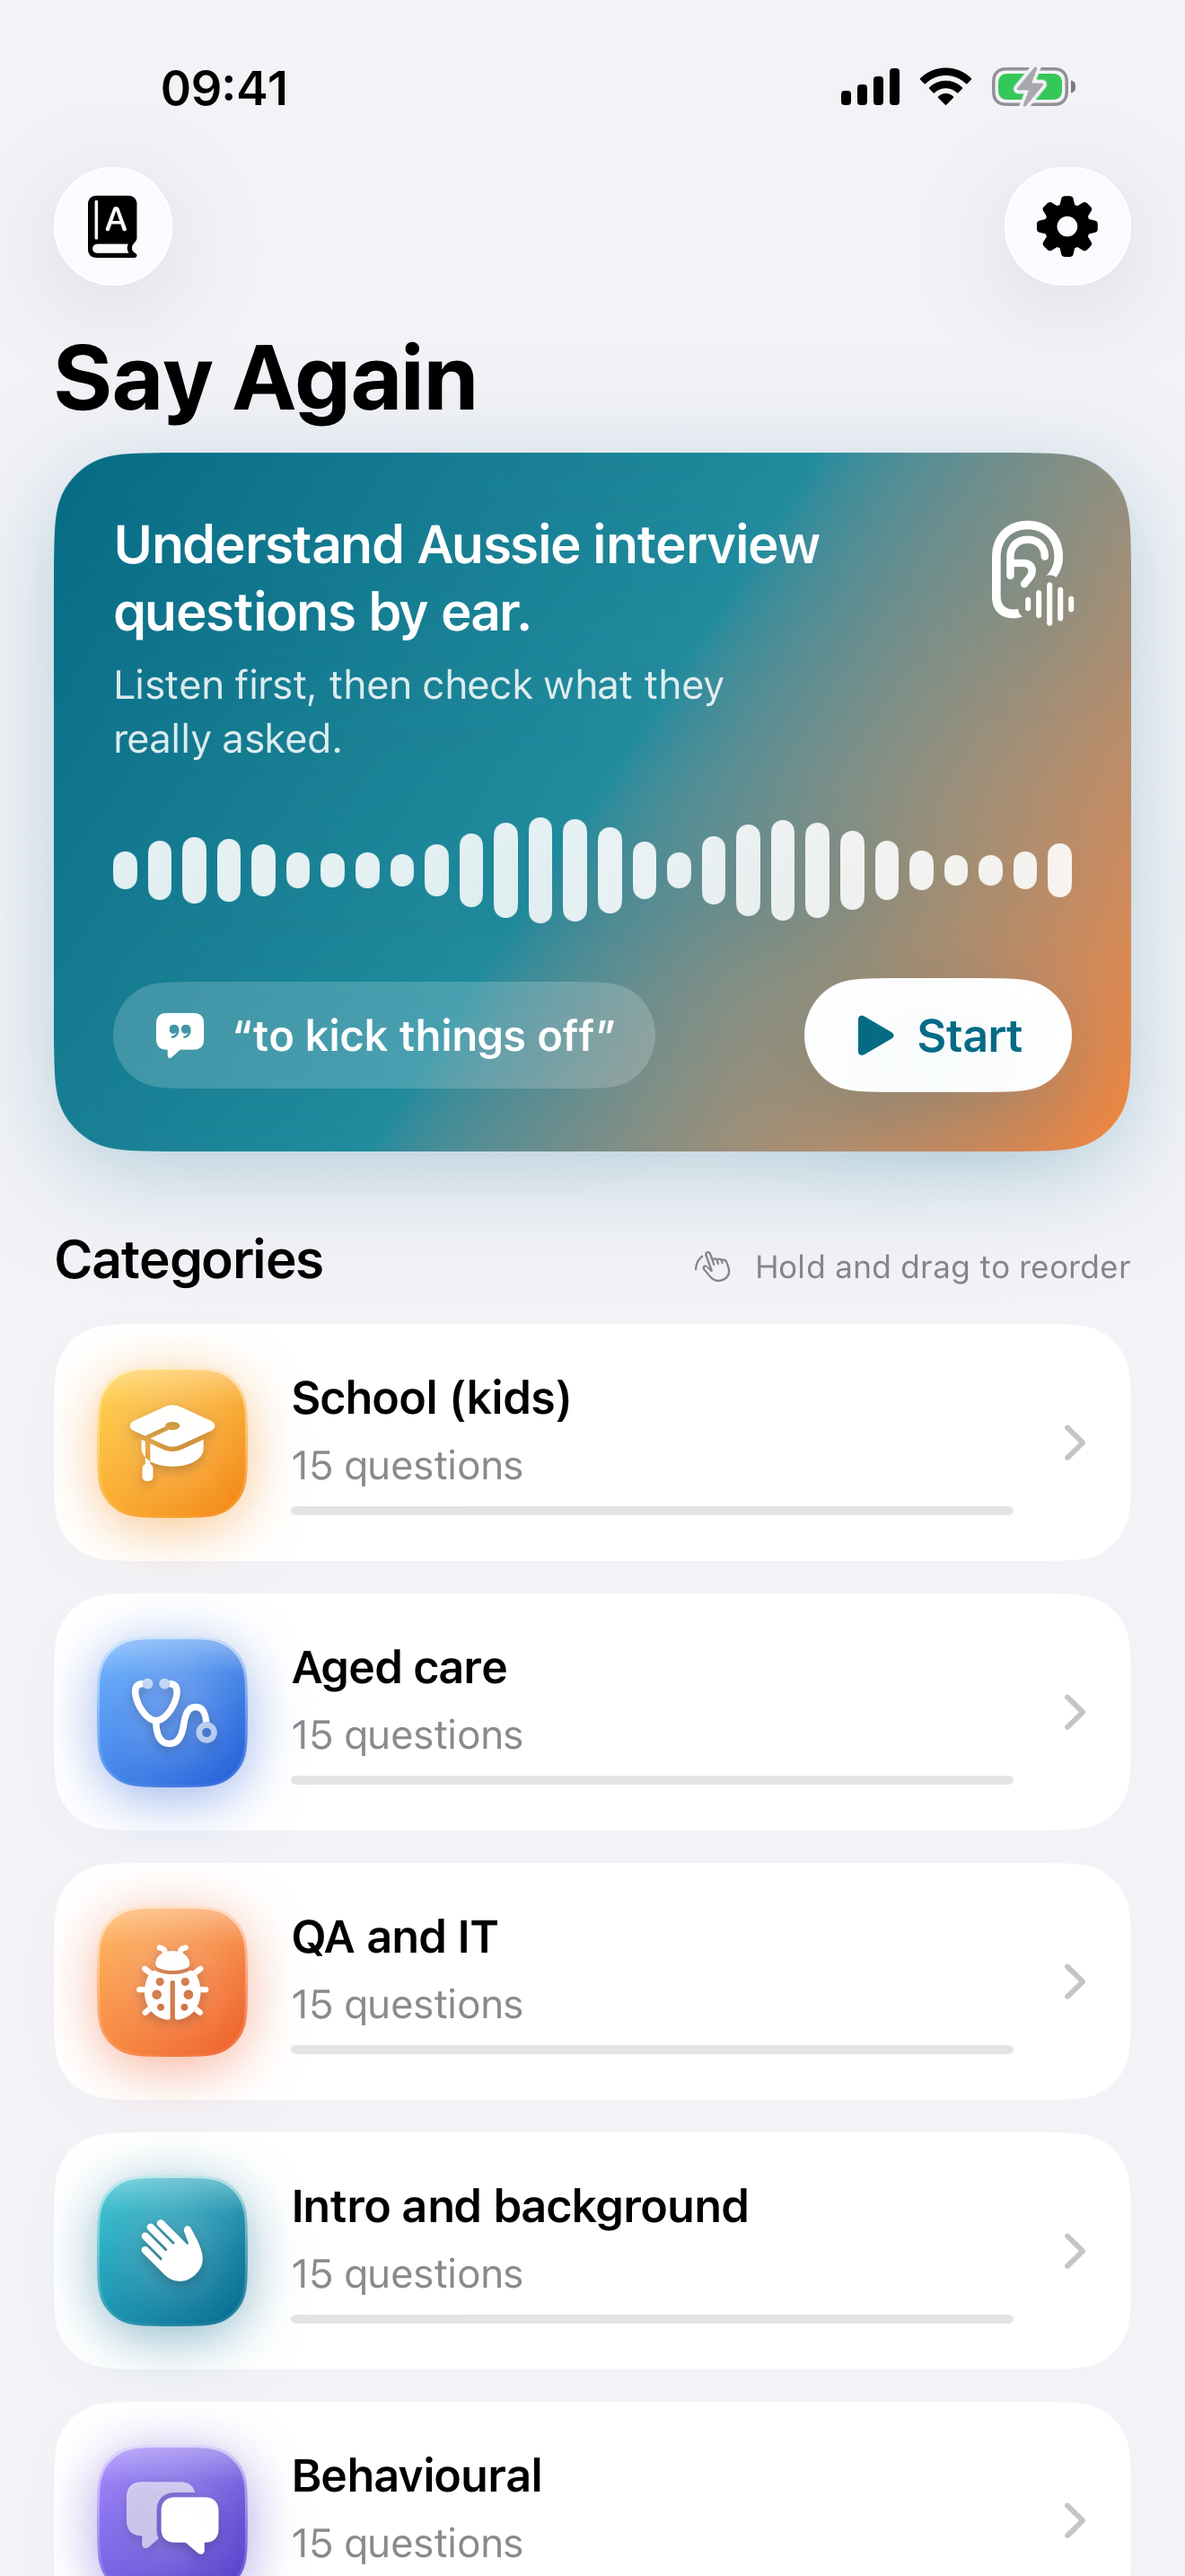
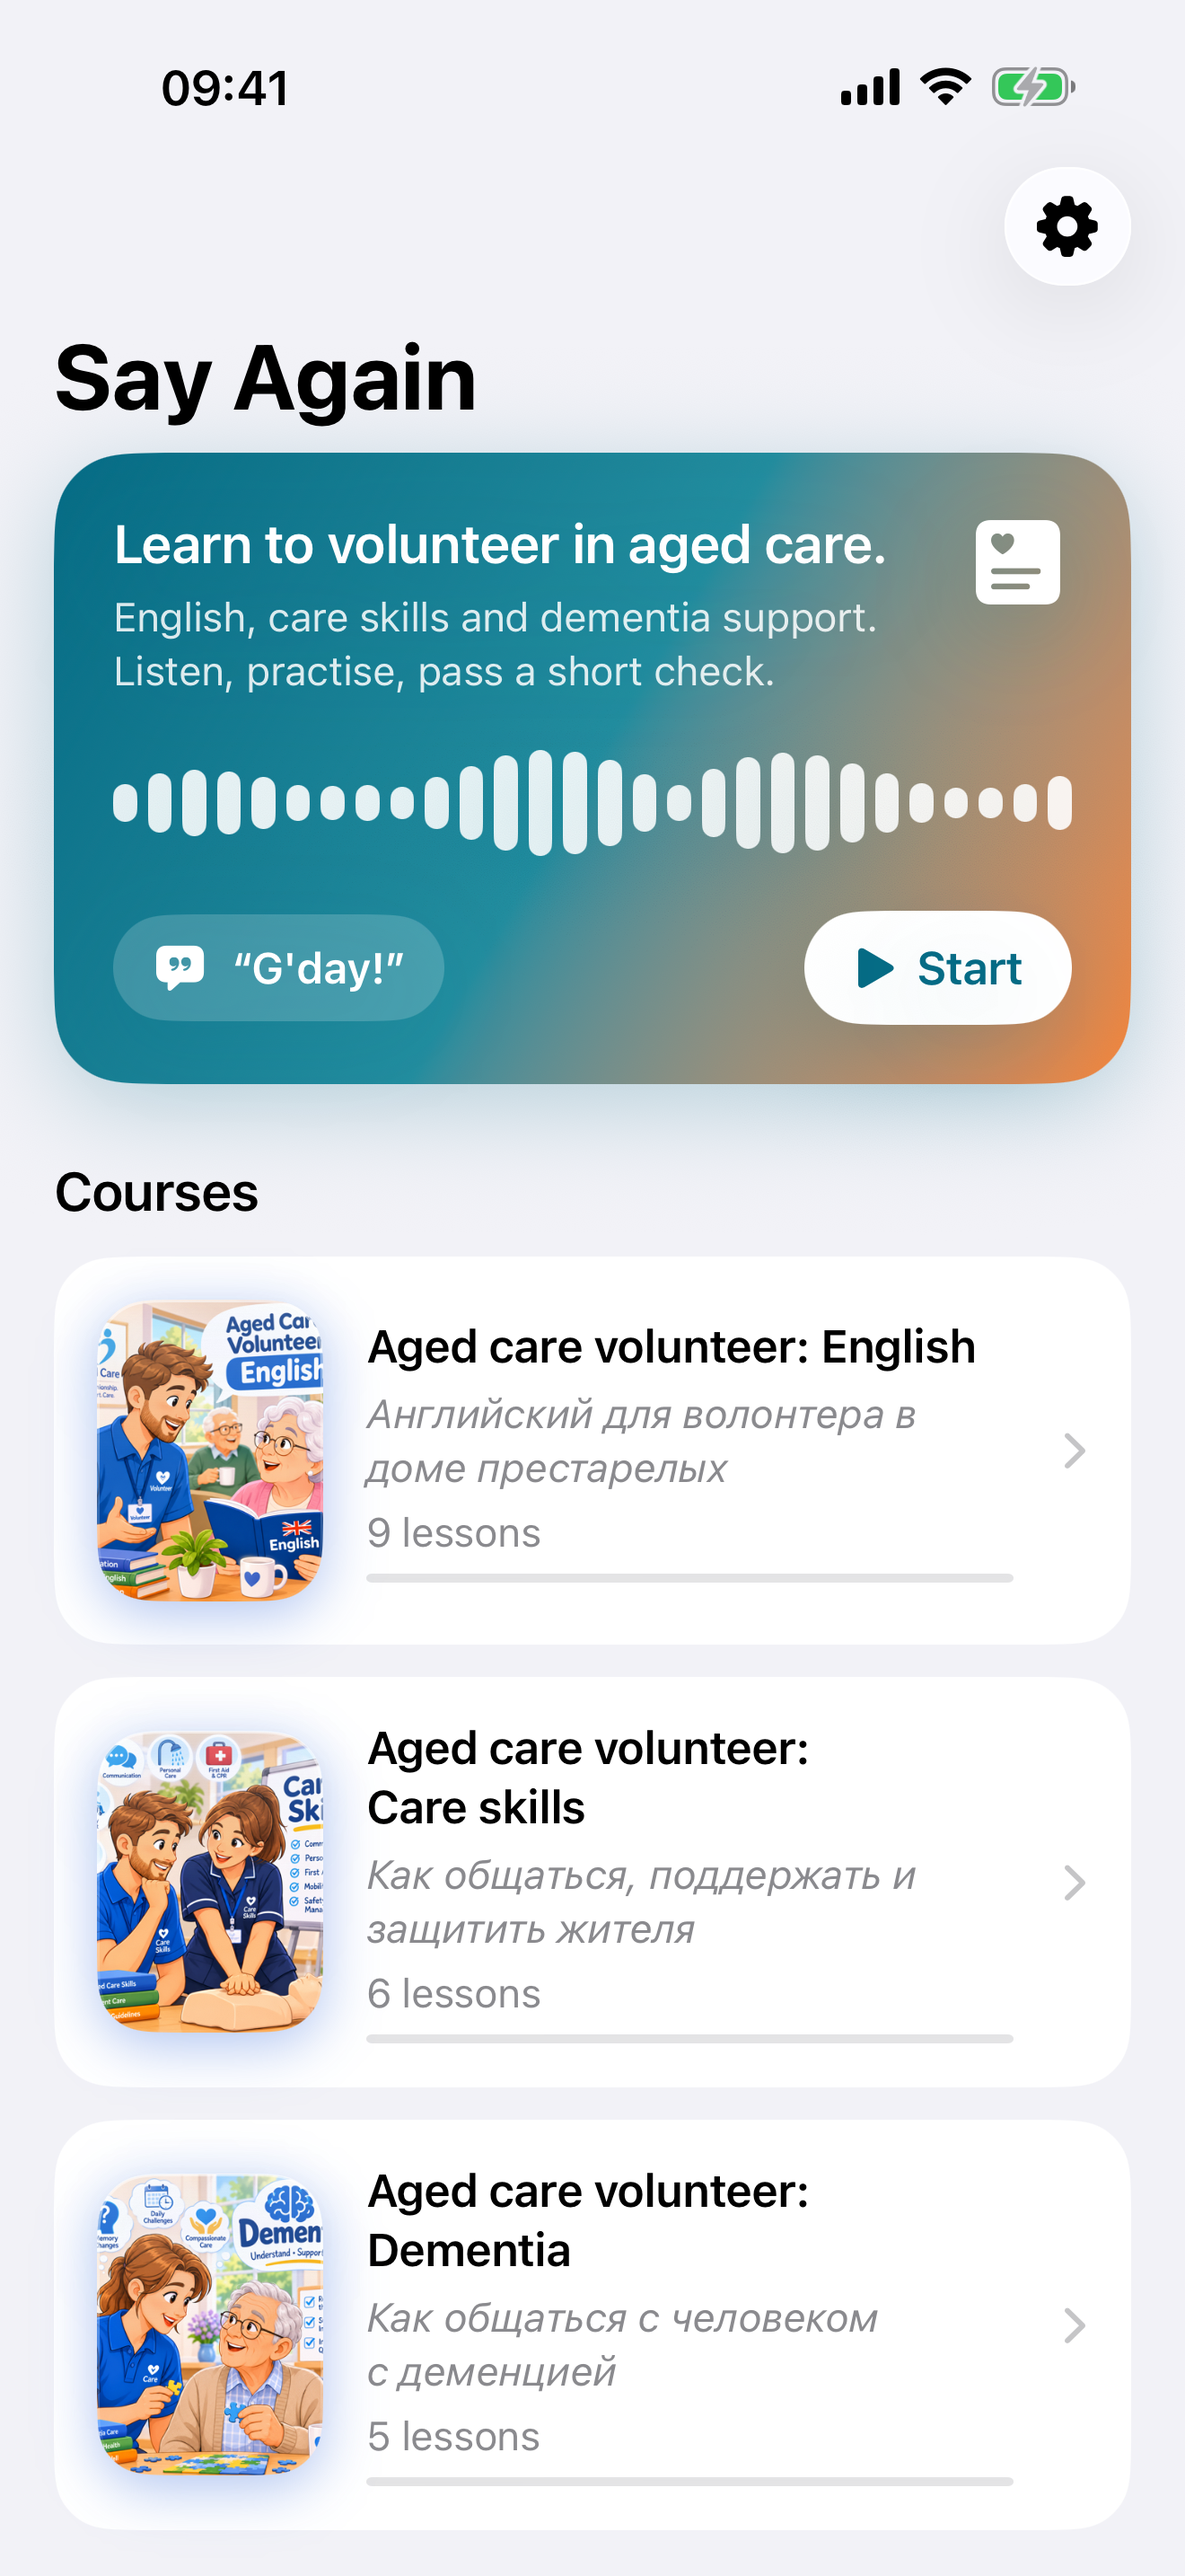
Capture screenshots of the volunteer courses

diff --git a/UITests/AppStoreScreenshots.swift b/UITests/AppStoreScreenshots.swift
@@ -1,9 +1,11 @@
 import SayAgainKit
 import XCTest
 
-/// Produces the App Store screenshots. Skipped in normal runs; see scripts/screenshots.sh.
-final class AppStoreScreenshots: InterviewPracticeUITestCase {
+/// Produces the App Store screenshots of the volunteer trainer. Skipped in normal runs;
+/// see scripts/screenshots.sh.
+final class AppStoreScreenshots: SayAgainUITestCase {
     private func snap(_ app: XCUIApplication, _ name: String) {
+        sleep(1)
         let attachment = XCTAttachment(screenshot: app.screenshot())
         attachment.name = name
         attachment.lifetime = .keepAlways
@@ -13,40 +15,52 @@ final class AppStoreScreenshots: InterviewPracticeUITestCase {
     func testCaptureScreenshots() throws {
         try XCTSkipUnless(ProcessInfo.processInfo.environment["SAYAGAIN_SCREENSHOTS"] == "1",
                           "Run scripts/screenshots.sh to capture App Store screenshots")
-        let bank = try QuestionBank.bundled()
+        let course = try XCTUnwrap(try CourseLibrary.bundled().course(id: Course.careSkillsID))
+        let lesson = course.lessons[0]
+        let seed = LaunchArgument.uiTestingSeed
+
         let app = launchApp(extraArguments: [LaunchArgument.bundledContent])
-        let home = HomeScreen(app: app).waitUntilShown()
+        let screen = CourseScreen(app: app)
+        HomeScreen(app: app).waitUntilShown()
         snap(app, "01-home")
 
-        home.startButton.tap()
-        let session = SessionScreen(app: app).waitUntilShown()
-        snap(app, "02-listen")
+        screen.careSkillsCard.tap()
+        XCTAssertTrue(screen.list.waitForExistence(timeout: 5))
+        snap(app, "02-lessons")
 
-        for step in 1...10 {
-            XCTAssertTrue(session.choices[0].waitForExistence(timeout: 5))
-            let labels = Set(session.choices.map { $0.label })
-            let question = try XCTUnwrap(bank.questions.first { labels.contains($0.gist) })
-            session.choose(question.gist)
-            XCTAssertTrue(session.nextButton.waitForExistence(timeout: 5))
-            if step == 1 {
-                sleep(1)
-                snap(app, "03-explanation")
-                session.sampleAnswerButton.tap()
-                XCTAssertTrue(session.sampleAnswerText.waitForExistence(timeout: 5))
-                sleep(1)
-                snap(app, "04-sample-answer")
-                session.sampleAnswerCloseButton.tap()
-            }
-            session.nextButton.tap()
+        screen.lessonRow(1).tap()
+        XCTAssertTrue(screen.step.waitForExistence(timeout: 5))
+        snap(app, "03-words")
+
+        // Words, dialogue, then the key points.
+        for _ in 0..<2 {
+            XCTAssertTrue(screen.continueButton.waitForExistence(timeout: 5))
+            screen.continueButton.tap()
         }
-        XCTAssertTrue(session.summary.waitForExistence(timeout: 5))
-        snap(app, "05-summary")
+        XCTAssertTrue(screen.step.label.contains("Key points"))
+        snap(app, "04-key-points")
+        screen.continueButton.tap()
 
-        session.doneButton.tap()
-        home.phrasebookButton.tap()
-        XCTAssertTrue(app.buttons[A11yID.Phrasebook.row("arvo")].waitForExistence(timeout: 2)
-                      || app.descendants(matching: .any)[A11yID.Phrasebook.list].waitForExistence(timeout: 5))
-        sleep(1)
-        snap(app, "06-phrasebook")
+        // Practice: right answers, a picture of the first "What do you do?" task.
+        var run = ExerciseRun(exercises: lesson.practice, seed: seed)
+        var snappedScenario = false
+        while let exercise = run.current {
+            let index = try XCTUnwrap(run.choices.firstIndex(of: exercise.answer))
+            XCTAssertTrue(screen.choice(index).waitForExistence(timeout: 5))
+            screen.choice(index).tap()
+            XCTAssertTrue(screen.explanation.waitForExistence(timeout: 5))
+            if exercise.kind == .scenario, !snappedScenario {
+                snap(app, "05-what-do-you-do")
+                snappedScenario = true
+            }
+            run.choose(exercise.answer)
+            run.next()
+            screen.nextButton.tap()
+        }
+        XCTAssertTrue(snappedScenario, "The lesson has no scenario task in practice")
+
+        screen.answer(lesson.check, seed: seed &+ 1, right: true)
+        XCTAssertTrue(screen.result.waitForExistence(timeout: 5))
+        snap(app, "06-lesson-passed")
     }
 }

diff --git a/README.md b/README.md
@@ -9,14 +9,14 @@ the accent, the slang, and the way interviewers really ask things
 ("Righto, last one from me...", "Have you had a crack at...").
 
 <p align="center">
-  <img src="AppStore/screenshots/01-home.png" width="200" alt="Home: categories with progress">
-  <img src="AppStore/screenshots/02-listen.png" width="200" alt="Listen to the question">
-  <img src="AppStore/screenshots/03-explanation.png" width="200" alt="What they really asked">
+  <img src="AppStore/screenshots/01-home.png" width="200" alt="Home: three volunteer courses">
+  <img src="AppStore/screenshots/02-lessons.png" width="200" alt="Care skills: lessons that open one by one">
+  <img src="AppStore/screenshots/03-words.png" width="200" alt="Words to hear, with Russian help">
 </p>
 <p align="center">
-  <img src="AppStore/screenshots/04-sample-answer.png" width="200" alt="Sample answer">
-  <img src="AppStore/screenshots/05-summary.png" width="200" alt="Session summary">
-  <img src="AppStore/screenshots/06-phrasebook.png" width="200" alt="Phrasebook">
+  <img src="AppStore/screenshots/04-key-points.png" width="200" alt="Key points of the lesson">
+  <img src="AppStore/screenshots/05-what-do-you-do.png" width="200" alt="What do you do? A scenario task">
+  <img src="AppStore/screenshots/06-lesson-passed.png" width="200" alt="Lesson passed, the next one opens">
 </p>
 <p align="center"><sub>App Store screenshots, captured by a UI test (<code>scripts/screenshots.sh</code>).</sub></p>
 
